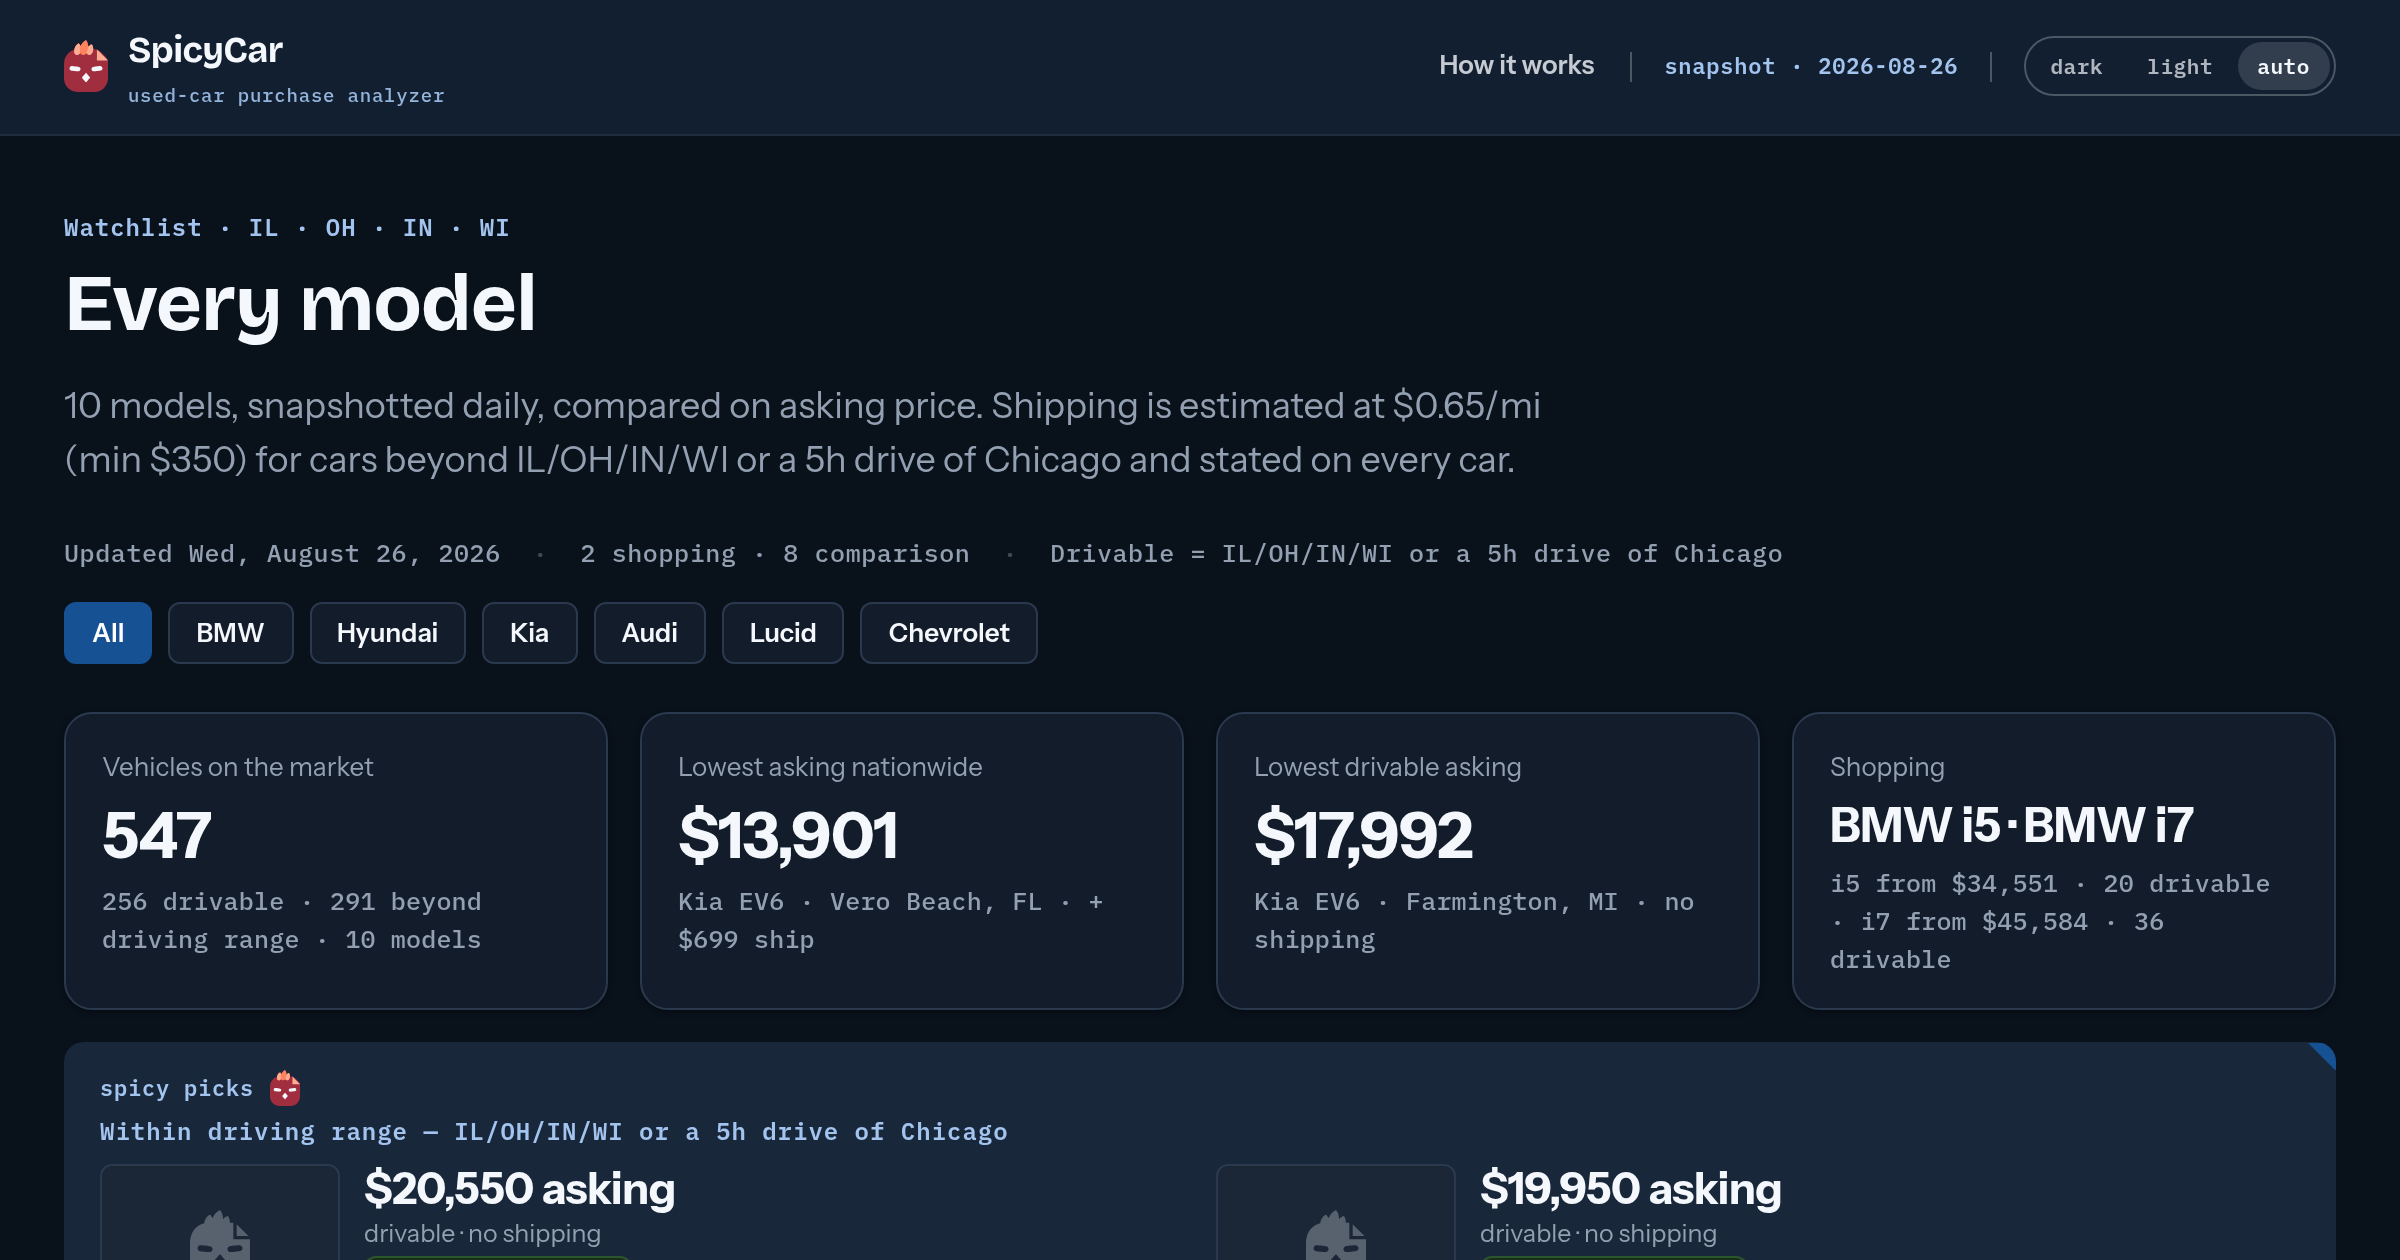
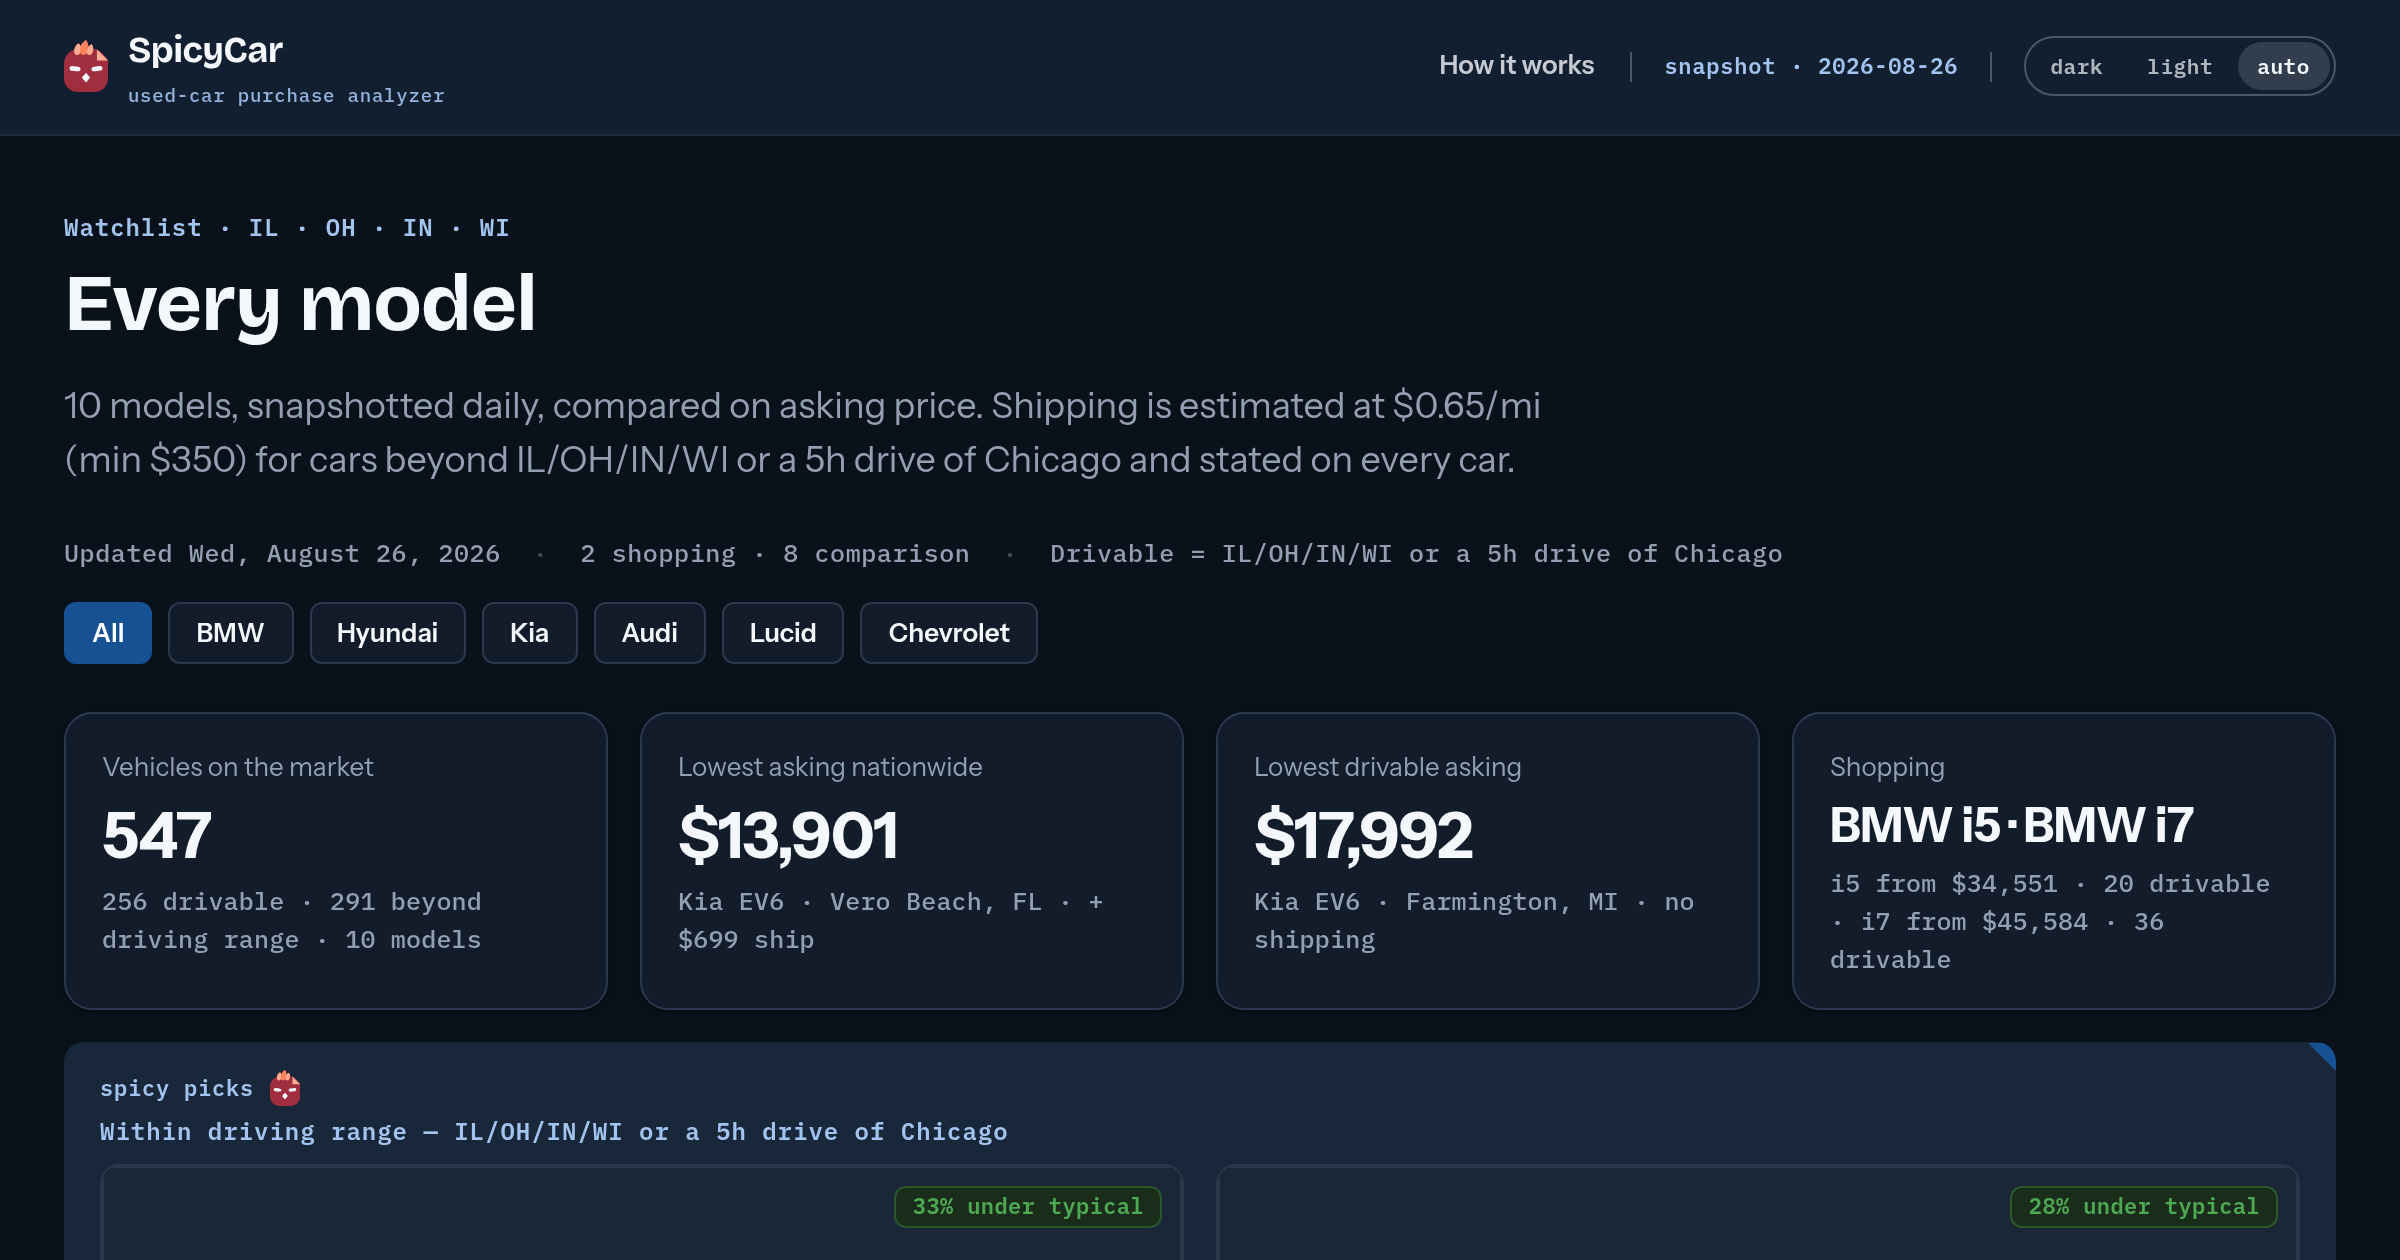
The photo pass: photo-led cards, blur-in, and a hover zoom (design audit #6)
Dealer photos are the most persuasive pixels available; now they lead.
Spicy-pick and shortlist cards are photo-first: the image fills a 16:10
frame, the asking price sits on a scrim across its foot with the
shipping line under it, and the value chip (or a vanished shortlist
car's verdict chip) rides the corner — the facts, reasoning and listing
link follow below. Cards with no photo keep the same composition with
the chick watermark in the frame, so nothing collapses.

Every photo on the page now loads inside a wrapper that keeps the frame
box stable: images blur in as they arrive and zoom gently on hover
(both gated behind prefers-reduced-motion), object-fit keeps crops
consistent, and the multi-candidate fallback chain still lands on the
chick when a dealer's CDN declines. docs/og.png and screenshot.png are
regenerated with the new cards.

Verified in Chromium with photos served (8 cards, price scrims, loaded
images) and with photos blocked (same 8 cards, 10 chick fallbacks),
zero JS errors either way. 67 Python tests pass.

Claude-Session: https://claude.ai/code/session_01XBTUht5V7R7edRL4uDH2xo

diff --git a/docs/index.html b/docs/index.html
@@ -72,6 +72,25 @@
   .scatter-line { fill: none; stroke: var(--sc-border-strong); stroke-width: 1.2; stroke-dasharray: 5 4; }
   .sc-lockup { display: block; height: 20px; width: auto; opacity: .9; }         /* the drawn SpicyChicken lockup, as drawn */
   .frame-chick { height: 45%; max-height: 44px; width: auto; opacity: .28; }     /* the chick keeps watch where a dealer sent no photo */
+  /* Photos: same frame box, but the image blurs in and zooms on hover inside it */
+  .frame-wrap { overflow: hidden; position: relative; padding: 0; }
+  .frame-wrap .frame-img { display: block; width: 100%; height: 100%; object-fit: cover; opacity: 0; filter: blur(10px); }
+  .frame-wrap .frame-img.is-loaded { opacity: 1; filter: none; }
+  @media (prefers-reduced-motion: no-preference) {
+    .frame-wrap .frame-img { transition: opacity .35s ease, filter .5s ease, transform .35s ease; }
+    .sc-media:hover .frame-img.is-loaded, .photo-card:hover .frame-img.is-loaded { transform: scale(1.06); }
+  }
+  /* Photo-led cards: the picture on top, the price on a scrim, the facts below */
+  .photo-card { display: flex; flex-direction: column; border: 1px solid var(--sc-border); border-radius: 10px; overflow: hidden; background: var(--sc-surface); }
+  .photo-card__media { position: relative; aspect-ratio: 16 / 10; }
+  .photo-card__media .sc-frame { width: 100%; height: 100%; border-radius: 0; }
+  .photo-card__price { position: absolute; left: 0; right: 0; bottom: 0; padding: 30px 14px 10px; pointer-events: none;
+    font: 700 21px/1.1 var(--sc-font-body); letter-spacing: -.3px; color: #fff;
+    background: linear-gradient(transparent, rgba(9, 17, 27, .82)); }
+  .photo-card__price .sub { display: block; font: 500 12px/1.5 var(--sc-font-body); letter-spacing: 0; color: rgba(255,255,255,.85); }
+  .photo-card__chip { position: absolute; top: 10px; right: 10px; }
+  .photo-card__body { padding: 11px 14px 13px; display: grid; gap: 4px; align-content: start; }
+  .photo-card__body p { margin: 0; }
   .legend-chip { display: inline-flex; align-items: center; gap: 6px; border: 0; background: none;
     padding: 4px 8px; cursor: pointer; color: inherit; font: 500 12.5px/1.4 var(--sc-font-mono); border-radius: 6px; }
   .legend-chip[aria-pressed="false"] span { opacity: .45; text-decoration: line-through; }
@@ -909,11 +928,17 @@
     const cls = 'sc-frame' + (large ? ' sc-frame--lg' : '');
     const queue = [x && x.image, ...(alts || [])].map(safeUrl).filter((u, i, a) => u && a.indexOf(u) === i);
     if (!queue.length) return el('div', { class: cls + ' sc-frame--empty' }, frameChick());
-    const img = el('img', { class: cls, src: queue.shift(), alt: '', loading: 'lazy', referrerpolicy: 'no-referrer' });
-    const next = () => { if (queue.length) img.src = queue.shift(); else img.replaceWith(el('div', { class: cls + ' sc-frame--empty' }, frameChick())); };
+    // a wrapper carries the frame so the photo can blur in and zoom on hover
+    // without ever changing the layout box
+    const img = el('img', { class: 'frame-img', src: queue.shift(), alt: '', loading: 'lazy', referrerpolicy: 'no-referrer' });
+    const wrap = el('div', { class: cls + ' frame-wrap' }, img);
+    const next = () => {
+      if (queue.length) { img.classList.remove('is-loaded'); img.src = queue.shift(); }
+      else { wrap.classList.add('sc-frame--empty'); wrap.textContent = ''; wrap.appendChild(frameChick()); }
+    };
     img.addEventListener('error', next);
-    img.addEventListener('load', () => { if (img.naturalWidth < 40) next(); });   // a placeholder pixel is not a photo
-    return img;
+    img.addEventListener('load', () => { if (img.naturalWidth < 40) next(); else img.classList.add('is-loaded'); });   // a placeholder pixel is not a photo
+    return wrap;
   }
   // History flags: the two that change a decision are chips (good / danger outline); the rest are words.
   function flagsCell(x) {
@@ -950,19 +975,19 @@
   const scopeChip = (x) => el('span', { class: 'sc-chip sc-chip--case ' + (x.local ? 'sc-chip--brand' : 'sc-chip--neutral'), title: x.local ? 'Drivable — no shipping' : 'Beyond driving range — shipping added' }, (x.state || '—').toUpperCase());
   const narrow = () => window.matchMedia('(max-width: 720px)').matches;
 
-  // One pick: photo, asking price, the shipping line, why it is a pick, and the facts.
+  // One pick, photo first: the picture on top with the price on a scrim and
+  // the value chip in the corner; the reasoning and facts below.
   function pickCard(p) {
     const b = p.x;
     const facts = [p.modelLabel, b.year, b.trim_label || b.trim, b.miles != null ? `${num(b.miles)} mi` : null, ...(b.flags || [])].filter(Boolean).join(' · ');
     const where = `${placeTxt(b)}${b.distance != null ? ` — ~${num(b.distance)} mi from ${homeName()}` : ''}${b.dealer ? ` · ${b.dealer}` : ''}`;
-    const para = el('p', null, `${facts}. ${where}.`);
-    const open = safeUrl(b.url) ? el('p', { style: 'margin-top:4px' }, el('a', { href: safeUrl(b.url), target: '_blank', rel: 'noopener' }, 'Open the listing →')) : null;
-    return el('div', { class: 'takeaway-col' }, el('div', { class: 'sc-media' }, thumbFor(b, true), el('div', { class: 'sc-media__body' },
-      el('div', { class: 'sc-callout__figure' }, `${money(b.price)} asking`),
-      el('div', { class: 'sc-media__sub' }, shipNote(b)),
-      el('div', null, el('span', { class: 'sc-chip sc-chip--good' }, `${Math.round(p.pct * 100)}% under typical`)),
+    const media = el('div', { class: 'photo-card__media' }, thumbFor(b, true),
+      el('div', { class: 'photo-card__price' }, `${money(b.price)} asking`, el('span', { class: 'sub' }, shipNote(b))),
+      el('span', { class: 'sc-chip sc-chip--good photo-card__chip' }, `${Math.round(p.pct * 100)}% under typical`));
+    const open = safeUrl(b.url) ? el('p', null, el('a', { href: safeUrl(b.url), target: '_blank', rel: 'noopener' }, 'Open the listing →')) : null;
+    return el('div', { class: 'photo-card' }, media, el('div', { class: 'photo-card__body' },
       el('span', { class: 'sc-note' }, `${money(p.under)} less than a typical ${[p.year, p.modelLabel, p.trim].filter(Boolean).join(' ')}, miles allowed for`),
-      para, open)));
+      el('p', null, `${facts}. ${where}.`), open));
   }
   // Spicy picks, under the current filters, in two lists: drivable cars, then
   // the rest of the country. Front page: across every model; model view: within it.
@@ -983,14 +1008,16 @@
       el('p', { class: 'sc-hint' }, picksRule())));
     host.hidden = false;
   }
-  // The shortlist: the cars actually being decided on, pinned to the front page.
+  // The shortlist: the cars actually being decided on, pinned to the front
+  // page — photo first, like the picks; a vanished one wears its verdict chip
+  // over the frame.
   function shortlistCard(vin, note) {
     const hit = findVin(vin);
     if (!hit) {
-      return el('div', { class: 'takeaway-col' }, el('div', { class: 'sc-media' }, el('div', { class: 'sc-media__body' },
+      return el('div', { class: 'photo-card' }, el('div', { class: 'photo-card__body' },
         el('div', { class: 'sc-media__title' }, 'Not seen yet by the tracker'),
         el('div', { class: 'sc-media__code' }, vin),
-        note ? el('span', { class: 'sc-note' }, note) : null)));
+        note ? el('span', { class: 'sc-note' }, note) : null));
     }
     const { x, m, bk, mk, gone } = hit;
     const daily = m.daily || [];
@@ -998,17 +1025,18 @@
     const goneLine = gone ? (x.likely === 'delisted' ? 'GONE — likely sold or pulled'
       : (x.likely === 'out of window' ? 'missing — priced above the fetch cut-off, probably still for sale' : 'not checked recently')) : null;
     const price = gone ? x.last_price : x.price;
-    const body = el('div', { class: 'sc-media__body' },
+    const media = el('div', { class: 'photo-card__media' }, thumbFor(gone ? null : x, true),
+      el('div', { class: 'photo-card__price' }, `${money(price)}${gone ? '' : ' asking'}`,
+        el('span', { class: 'sub' }, gone ? `last seen ${fmtDate(x.last_seen)}` : shipNote(x))),
+      gone ? el('span', { class: 'sc-chip photo-card__chip ' + (x.likely === 'delisted' ? 'sc-chip--danger' : 'sc-chip--warn') }, goneLine)
+           : (x.pick_pct > 0 ? el('span', { class: 'sc-chip sc-chip--good photo-card__chip' }, `${Math.round(x.pick_pct * 100)}% under typical`) : null));
+    return el('div', { class: 'photo-card' }, media, el('div', { class: 'photo-card__body' },
       el('div', { class: 'sc-media__title' }, title),
-      el('div', { class: 'sc-callout__figure' }, `${money(price)}${gone ? ` · last seen ${fmtDate(x.last_seen)}` : ' asking'}`),
-      gone ? el('div', null, el('span', { class: 'sc-chip ' + (x.likely === 'delisted' ? 'sc-chip--danger' : 'sc-chip--warn') }, goneLine))
-           : el('div', { class: 'sc-media__sub' }, `${x.miles != null ? num(x.miles) + ' mi · ' : ''}${shipNote(x)} · ${placeTxt(x)}`),
+      gone ? null : el('div', { class: 'sc-media__sub' }, `${x.miles != null ? num(x.miles) + ' mi · ' : ''}${placeTxt(x)}`),
       gone ? null : movement(x, daily),
-      x.pick_pct > 0 ? el('span', { class: 'sc-note' }, `${Math.round(x.pick_pct * 100)}% under typical`) : null,
       note ? el('span', { class: 'sc-note' }, `note: ${note}`) : null,
       el('div', { class: 'sc-media__code' }, x.vin),
-      el('div', null, quietLinks(x), el('a', { class: 'sc-link--quiet', href: '#', onclick: (e) => { e.preventDefault(); goTo(bk, mk); } }, 'Open model →')));
-    return el('div', { class: 'takeaway-col' }, el('div', { class: 'sc-media' }, thumbFor(gone ? null : x, true), body));
+      el('div', null, quietLinks(x), el('a', { class: 'sc-link--quiet', href: '#', onclick: (e) => { e.preventDefault(); goTo(bk, mk); } }, 'Open model →'))));
   }
   function renderShortlist(show) {
     const host = $('shortlist'); host.textContent = '';
